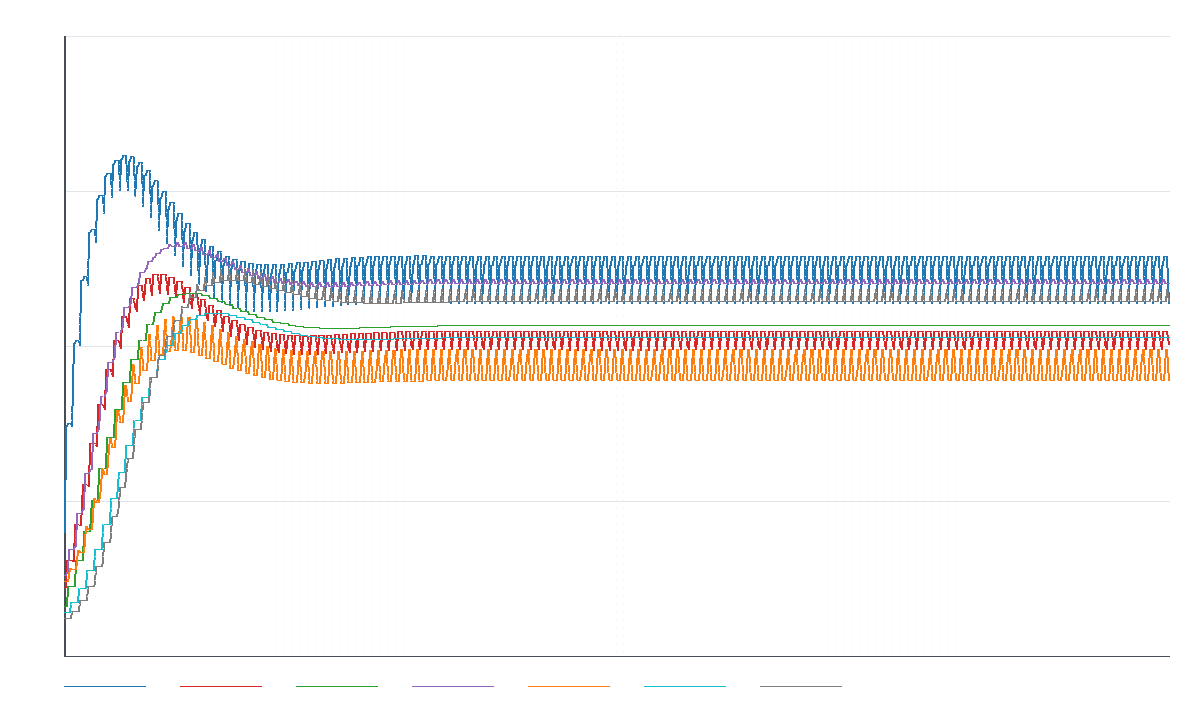
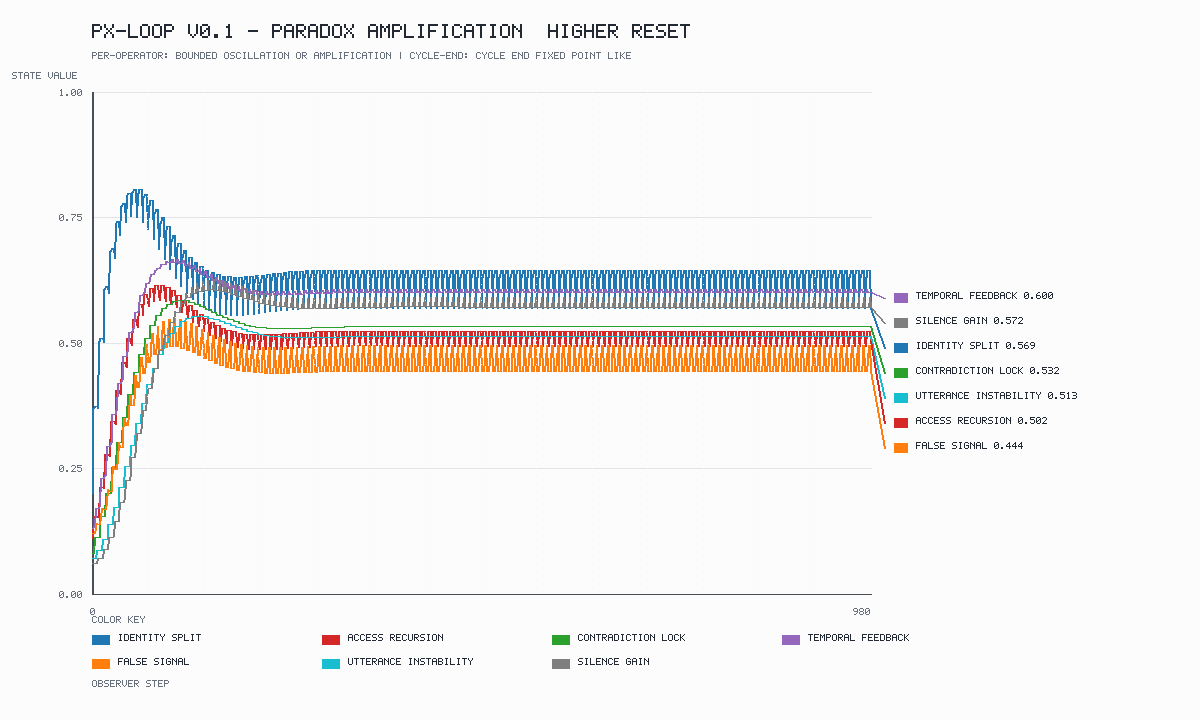
Polish PX-loop trajectory visuals

diff --git a/px_loop/observer.py b/px_loop/observer.py
@@ -216,6 +216,21 @@ def _set_pixel(pixels: bytearray, width: int, height: int, x: int, y: int, color
         pixels[offset : offset + 3] = bytes(color)
 
 
+def _fill_rect(
+    pixels: bytearray,
+    width: int,
+    height: int,
+    x: int,
+    y: int,
+    rect_width: int,
+    rect_height: int,
+    color: tuple[int, int, int],
+) -> None:
+    for row in range(y, y + rect_height):
+        for column in range(x, x + rect_width):
+            _set_pixel(pixels, width, height, column, row, color)
+
+
 def _draw_line(
     pixels: bytearray,
     width: int,
@@ -246,24 +261,137 @@ def _draw_line(
             y0 += sy
 
 
-def write_trajectory_png(records: Sequence[PXRecord], path: str | Path, width: int = 1200, height: int = 720) -> Path:
+_FONT_5X7 = {
+    " ": ("00000", "00000", "00000", "00000", "00000", "00000", "00000"),
+    "-": ("00000", "00000", "00000", "11111", "00000", "00000", "00000"),
+    "_": ("00000", "00000", "00000", "00000", "00000", "00000", "11111"),
+    ".": ("00000", "00000", "00000", "00000", "00000", "01100", "01100"),
+    ":": ("00000", "01100", "01100", "00000", "01100", "01100", "00000"),
+    "/": ("00001", "00010", "00100", "01000", "10000", "00000", "00000"),
+    "|": ("00100", "00100", "00100", "00100", "00100", "00100", "00100"),
+    ">": ("10000", "01000", "00100", "00010", "00100", "01000", "10000"),
+    "=": ("00000", "11111", "00000", "11111", "00000", "00000", "00000"),
+    "0": ("01110", "10001", "10011", "10101", "11001", "10001", "01110"),
+    "1": ("00100", "01100", "00100", "00100", "00100", "00100", "01110"),
+    "2": ("01110", "10001", "00001", "00010", "00100", "01000", "11111"),
+    "3": ("11110", "00001", "00001", "01110", "00001", "00001", "11110"),
+    "4": ("00010", "00110", "01010", "10010", "11111", "00010", "00010"),
+    "5": ("11111", "10000", "11110", "00001", "00001", "10001", "01110"),
+    "6": ("00110", "01000", "10000", "11110", "10001", "10001", "01110"),
+    "7": ("11111", "00001", "00010", "00100", "01000", "01000", "01000"),
+    "8": ("01110", "10001", "10001", "01110", "10001", "10001", "01110"),
+    "9": ("01110", "10001", "10001", "01111", "00001", "00010", "01100"),
+    "A": ("01110", "10001", "10001", "11111", "10001", "10001", "10001"),
+    "B": ("11110", "10001", "10001", "11110", "10001", "10001", "11110"),
+    "C": ("01110", "10001", "10000", "10000", "10000", "10001", "01110"),
+    "D": ("11110", "10001", "10001", "10001", "10001", "10001", "11110"),
+    "E": ("11111", "10000", "10000", "11110", "10000", "10000", "11111"),
+    "F": ("11111", "10000", "10000", "11110", "10000", "10000", "10000"),
+    "G": ("01110", "10001", "10000", "10111", "10001", "10001", "01110"),
+    "H": ("10001", "10001", "10001", "11111", "10001", "10001", "10001"),
+    "I": ("01110", "00100", "00100", "00100", "00100", "00100", "01110"),
+    "J": ("00111", "00010", "00010", "00010", "00010", "10010", "01100"),
+    "K": ("10001", "10010", "10100", "11000", "10100", "10010", "10001"),
+    "L": ("10000", "10000", "10000", "10000", "10000", "10000", "11111"),
+    "M": ("10001", "11011", "10101", "10101", "10001", "10001", "10001"),
+    "N": ("10001", "11001", "10101", "10011", "10001", "10001", "10001"),
+    "O": ("01110", "10001", "10001", "10001", "10001", "10001", "01110"),
+    "P": ("11110", "10001", "10001", "11110", "10000", "10000", "10000"),
+    "Q": ("01110", "10001", "10001", "10001", "10101", "10010", "01101"),
+    "R": ("11110", "10001", "10001", "11110", "10100", "10010", "10001"),
+    "S": ("01111", "10000", "10000", "01110", "00001", "00001", "11110"),
+    "T": ("11111", "00100", "00100", "00100", "00100", "00100", "00100"),
+    "U": ("10001", "10001", "10001", "10001", "10001", "10001", "01110"),
+    "V": ("10001", "10001", "10001", "10001", "10001", "01010", "00100"),
+    "W": ("10001", "10001", "10001", "10101", "10101", "10101", "01010"),
+    "X": ("10001", "10001", "01010", "00100", "01010", "10001", "10001"),
+    "Y": ("10001", "10001", "01010", "00100", "00100", "00100", "00100"),
+    "Z": ("11111", "00001", "00010", "00100", "01000", "10000", "11111"),
+}
+
+
+def _text_width(text: str, scale: int = 1) -> int:
+    return max(0, len(text) * 6 * scale - scale)
+
+
+def _draw_text(
+    pixels: bytearray,
+    width: int,
+    height: int,
+    text: str,
+    x: int,
+    y: int,
+    color: tuple[int, int, int],
+    scale: int = 1,
+) -> None:
+    cursor_x = x
+    for character in text.upper():
+        glyph = _FONT_5X7.get(character, _FONT_5X7[" "])
+        for row_index, row in enumerate(glyph):
+            for column_index, bit in enumerate(row):
+                if bit == "1":
+                    _fill_rect(
+                        pixels,
+                        width,
+                        height,
+                        cursor_x + column_index * scale,
+                        y + row_index * scale,
+                        scale,
+                        scale,
+                        color,
+                    )
+        cursor_x += 6 * scale
+
+
+def _display_label(value: str) -> str:
+    return value.replace("_", " ").replace("  ", " ").upper()
+
+
+def write_trajectory_png(
+    records: Sequence[PXRecord],
+    path: str | Path,
+    width: int = 1200,
+    height: int = 720,
+    title: str = "PX-LOOP V0.1 TRAJECTORY",
+    subtitle: str | None = None,
+) -> Path:
     """Write a dependency-free PNG line plot of all seven state dimensions."""
     path = Path(path)
     path.parent.mkdir(parents=True, exist_ok=True)
-    pixels = bytearray([255] * (width * height * 3))
+    pixels = bytearray([252] * (width * height * 3))
 
-    margin_left = 64
-    margin_top = 36
-    margin_right = 32
-    margin_bottom = 64
+    margin_left = 92
+    margin_top = 92
+    margin_right = 330
+    margin_bottom = 126
     plot_width = width - margin_left - margin_right
     plot_height = height - margin_top - margin_bottom
 
+    ink = (36, 42, 51)
+    muted = (104, 112, 124)
     grid = (225, 228, 232)
     axis = (72, 78, 86)
-    for fraction in (0.0, 0.25, 0.5, 0.75, 1.0):
+
+    _draw_text(pixels, width, height, title, margin_left, 24, ink, scale=2)
+    if subtitle:
+        _draw_text(pixels, width, height, subtitle, margin_left, 52, muted, scale=1)
+
+    _draw_text(pixels, width, height, "STATE VALUE", 12, margin_top - 20, muted, scale=1)
+    _draw_text(pixels, width, height, "OBSERVER STEP", margin_left, height - 40, muted, scale=1)
+
+    for fraction, label in ((0.0, "0.00"), (0.25, "0.25"), (0.5, "0.50"), (0.75, "0.75"), (1.0, "1.00")):
         y = margin_top + int((1.0 - fraction) * plot_height)
         _draw_line(pixels, width, height, (margin_left, y), (width - margin_right, y), grid)
+        _draw_text(
+            pixels,
+            width,
+            height,
+            label,
+            margin_left - _text_width(label, scale=1) - 10,
+            y - 3,
+            muted,
+            scale=1,
+        )
     _draw_line(
         pixels,
         width,
@@ -281,7 +409,7 @@ def write_trajectory_png(records: Sequence[PXRecord], path: str | Path, width: i
         axis,
     )
 
-    colors = (
+    colors: tuple[tuple[int, int, int], ...] = (
         (31, 119, 180),
         (214, 39, 40),
         (44, 160, 44),
@@ -292,6 +420,7 @@ def write_trajectory_png(records: Sequence[PXRecord], path: str | Path, width: i
     )
 
     denominator = max(1, len(records) - 1)
+    final_points: list[dict[str, object]] = []
     for dimension, color in zip(DIMENSIONS, colors, strict=True):
         points: list[tuple[int, int]] = []
         for index, record in enumerate(records):
@@ -302,23 +431,77 @@ def write_trajectory_png(records: Sequence[PXRecord], path: str | Path, width: i
         for start, end in zip(points, points[1:], strict=False):
             _draw_line(pixels, width, height, start, end, color)
 
-    # Color-key strip; dimension names are documented in the README and CSV header.
-    strip_y = height - 34
-    strip_x = margin_left
-    for color in colors:
-        _draw_line(pixels, width, height, (strip_x, strip_y), (strip_x + 80, strip_y), color)
-        strip_x += 116
+        final_points.append(
+            {
+                "dimension": dimension,
+                "color": color,
+                "x": points[-1][0],
+                "target_y": points[-1][1],
+                "value": records[-1].values[dimension],
+            }
+        )
 
-    # Mark loop boundaries lightly so full PX cycles can be inspected.
+    # Mark loop boundaries lightly so full PX cycles can be inspected without
+    # washing out long runs.
     cycle_count = max(record.cycle for record in records) if records else 0
     if cycle_count > 0:
-        for cycle in range(1, cycle_count + 1):
+        cycle_interval = 1 if cycle_count <= 40 else 10
+        for cycle in range(cycle_interval, cycle_count + 1, cycle_interval):
             index = cycle * 7
             x = margin_left + int(index * plot_width / denominator)
             if x >= width - margin_right:
                 continue
             for y in range(margin_top, height - margin_bottom, 8):
                 _set_pixel(pixels, width, height, x, y, (238, 240, 243))
+
+    final_step = str(records[-1].index if records else 0)
+    _draw_text(pixels, width, height, "0", margin_left - 2, height - margin_bottom + 14, muted, scale=1)
+    _draw_text(
+        pixels,
+        width,
+        height,
+        final_step,
+        width - margin_right - _text_width(final_step, scale=1),
+        height - margin_bottom + 14,
+        muted,
+        scale=1,
+    )
+
+    final_points.sort(key=lambda item: int(item["target_y"]))
+    min_gap = 25
+    label_top = margin_top + 4
+    label_bottom = height - margin_bottom - 18
+    for item in final_points:
+        item["label_y"] = max(label_top, int(item["target_y"]))
+    for previous, current in zip(final_points, final_points[1:], strict=False):
+        current["label_y"] = max(int(current["label_y"]), int(previous["label_y"]) + min_gap)
+    overflow = int(final_points[-1]["label_y"]) - label_bottom if final_points else 0
+    if overflow > 0:
+        for item in final_points:
+            item["label_y"] = int(item["label_y"]) - overflow
+
+    label_x = width - margin_right + 24
+    for item in final_points:
+        color = item["color"]
+        assert isinstance(color, tuple)
+        final_x = int(item["x"])
+        final_y = int(item["target_y"])
+        label_y = int(item["label_y"])
+        _draw_line(pixels, width, height, (final_x, final_y), (label_x - 10, label_y + 6), color)
+        _fill_rect(pixels, width, height, label_x, label_y + 1, 14, 10, color)
+        label = f"{_display_label(str(item['dimension']))} {float(item['value']):.3f}"
+        _draw_text(pixels, width, height, label, label_x + 22, label_y, ink, scale=1)
+
+    legend_y = height - 86
+    legend_x = margin_left
+    _draw_text(pixels, width, height, "COLOR KEY", legend_x, legend_y - 18, muted, scale=1)
+    for index, (dimension, color) in enumerate(zip(DIMENSIONS, colors, strict=True)):
+        row = index // 4
+        column = index % 4
+        x = legend_x + column * 230
+        y = legend_y + row * 24
+        _fill_rect(pixels, width, height, x, y + 1, 18, 10, color)
+        _draw_text(pixels, width, height, _display_label(dimension), x + 26, y, ink, scale=1)
 
     _write_rgb_png(path, width, height, pixels)
     return path

diff --git a/px_loop/simulate.py b/px_loop/simulate.py
@@ -83,7 +83,17 @@ def run_and_save(
 
     csv_path = write_csv_log(result.records, output_dir / "trajectory.csv")
     summary_path = write_summary_json(result.summary, output_dir / "summary.json")
-    plot_path = write_trajectory_png(result.records, output_dir / "trajectory.png")
+    title = f"PX-LOOP V0.1 - {result.preset.name.replace('_', ' ').upper()}"
+    subtitle = (
+        f"PER-OPERATOR: {str(result.summary['classification']).replace('_', ' ').upper()} | "
+        f"CYCLE-END: {str(result.summary['cycle_end']['classification']).replace('_', ' ').upper()}"
+    )
+    plot_path = write_trajectory_png(
+        result.records,
+        output_dir / "trajectory.png",
+        title=title,
+        subtitle=subtitle,
+    )
 
     return SimulationResult(
         preset=result.preset,

diff --git a/px_loop/README.md b/px_loop/README.md
@@ -50,7 +50,7 @@ Outputs:
 - `summary.json` records the preset, replay metadata, final state, value ranges, and coarse trajectory classification.
 - `trajectory.png` is a dependency-free PNG line plot of the seven state dimensions.
 
-The plot color order matches the state-dimension order listed above.
+The plot includes a title, axis ticks, direct labels at the right edge, final values, and a color key. The direct labels point to the final PX-007 state, while the jagged paths show movement across individual PX operators inside each cycle.
 
 `summary.json` keeps two behavior labels:
 
